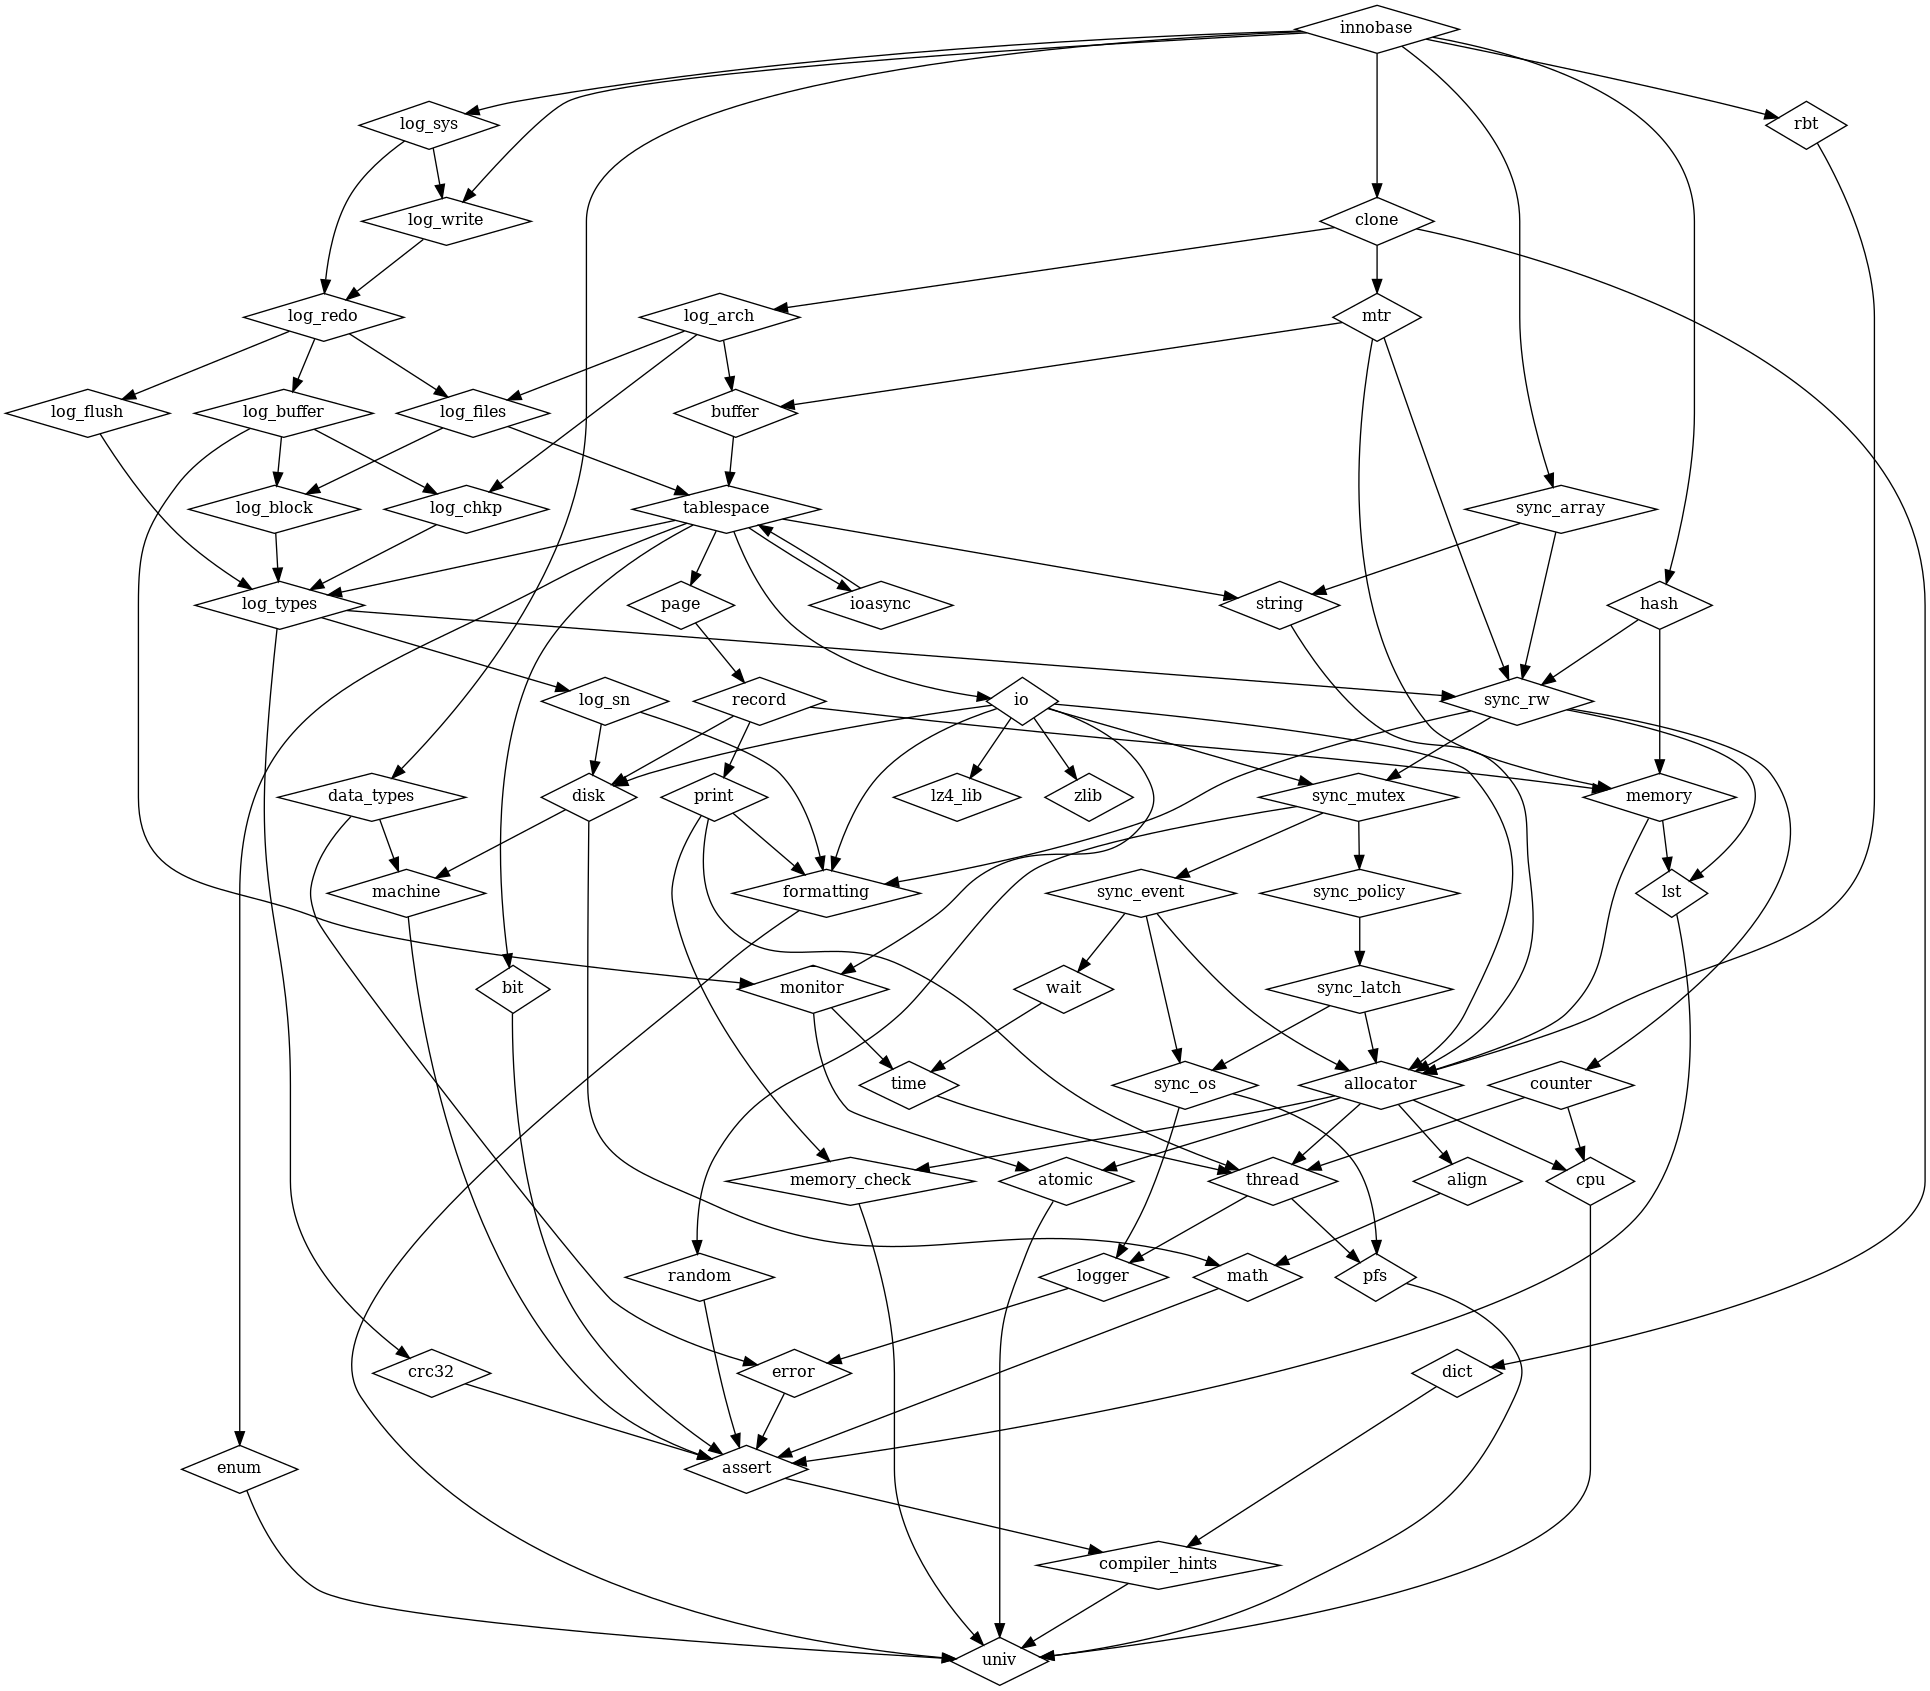
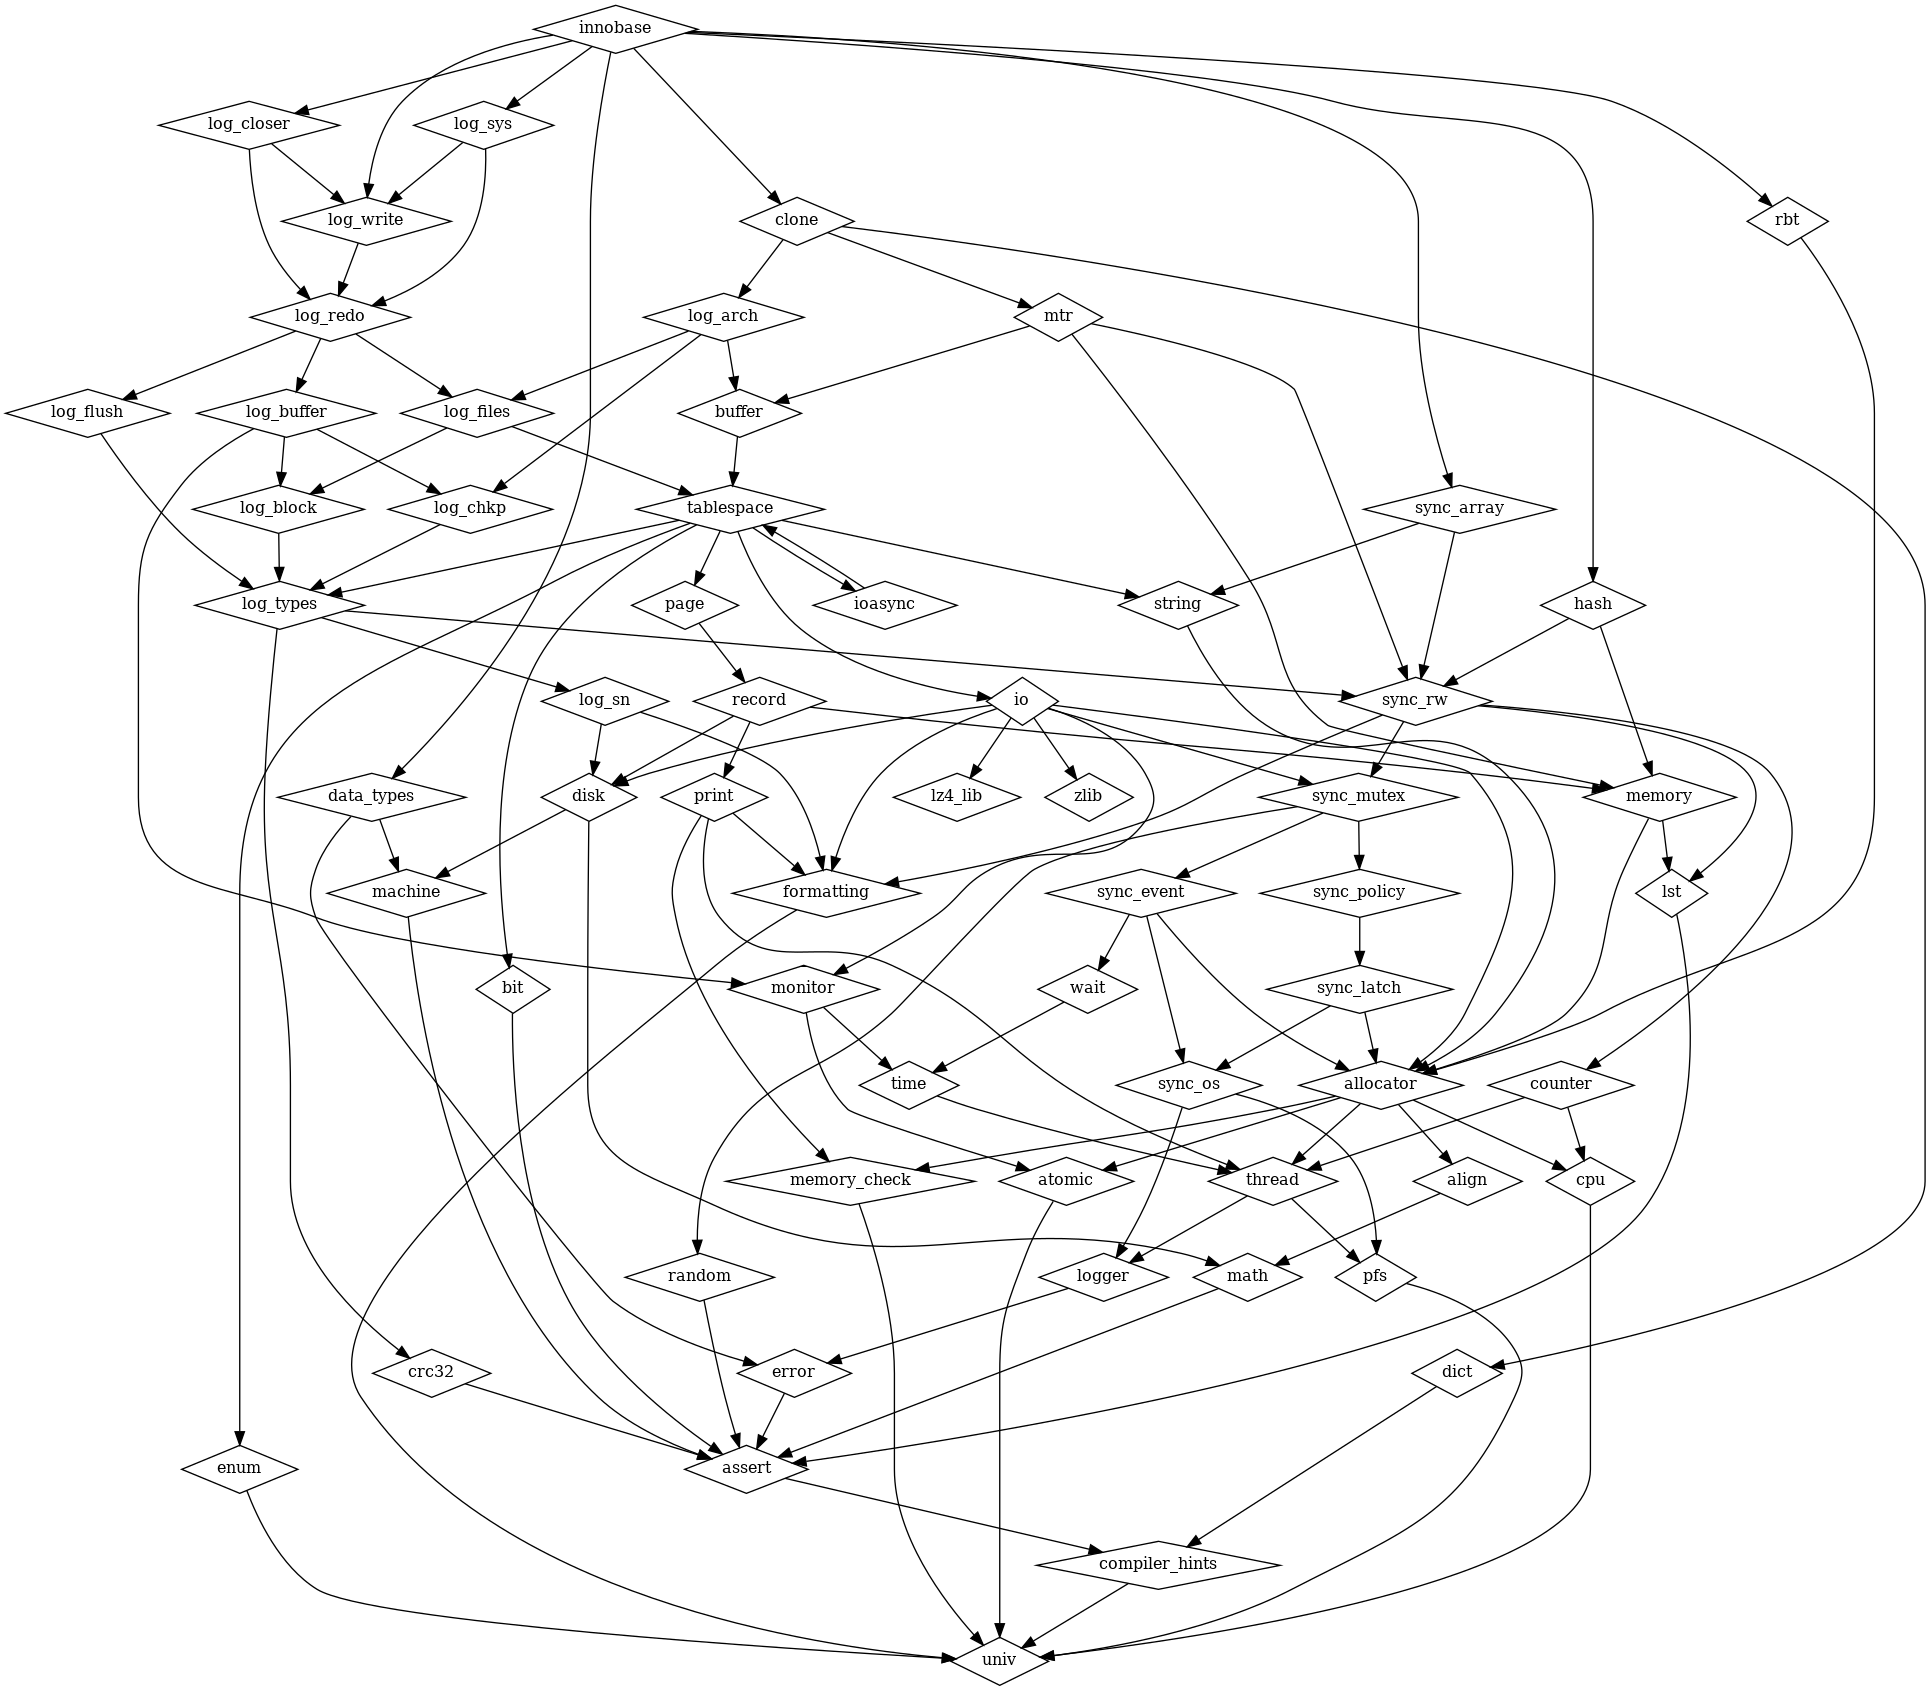
Create log_closer library

diff --git a/storage/innobase/libs/log_closer/src/log_closer.cpp b/storage/innobase/libs/log_closer/src/log_closer.cpp
@@ -1,4 +1,4 @@
-#include <innodb/log_write/log_closer.h>
+#include <innodb/log_closer/log_closer.h>
 
 #include <innodb/log_redo/log_advance_dirty_pages_added_up_to_lsn.h>
 #include <innodb/log_buffer/log_buffer_dirty_pages_added_up_to_lsn.h>
@@ -9,8 +9,8 @@
 #include <innodb/log_sn/log_lsn_validate.h>
 #include <innodb/log_types/log_t.h>
 #include <innodb/log_write/Log_thread_waiting.h>
-#include <innodb/log_write/srv_log_closer_spin_delay.h>
-#include <innodb/log_write/srv_log_closer_timeout.h>
+#include <innodb/log_closer/srv_log_closer_spin_delay.h>
+#include <innodb/log_closer/srv_log_closer_timeout.h>
 #include <innodb/sync_event/os_event_set.h>
 
 void log_closer(log_t *log_ptr) {

diff --git a/storage/innobase/include/srv0srv.h b/storage/innobase/include/srv0srv.h
@@ -63,8 +63,8 @@ this program; if not, write to the Free Software Foundation, Inc.,
 #include <innodb/log_write/srv_log_write_notifier_spin_delay.h>
 #include <innodb/log_redo/srv_stats.h>
 #include <innodb/log_redo/srv_log_write_max_size.h>
-#include <innodb/log_write/srv_log_closer_timeout.h>
-#include <innodb/log_write/srv_log_closer_spin_delay.h>
+#include <innodb/log_closer/srv_log_closer_timeout.h>
+#include <innodb/log_closer/srv_log_closer_spin_delay.h>
 #include <innodb/log_write/srv_flush_log_at_trx_commit.h>
 #include <innodb/log_write/srv_log_spin_cpu_abs_lwm.h>
 #include <innodb/log_write/srv_cpu_usage.h>

diff --git a/storage/innobase/log/log0log.cc b/storage/innobase/log/log0log.cc
@@ -56,7 +56,7 @@ this program; if not, write to the Free Software Foundation, Inc.,
 #include <innodb/log_buffer/log_calc_buf_size.h>
 #include <innodb/log_sys/log_sys_object.h>
 #include <innodb/log_redo/pfs.h>
-#include <innodb/log_write/log_closer.h>
+#include <innodb/log_closer/log_closer.h>
 #include <innodb/log_write/log_flush_notifier.h>
 #include <innodb/log_write/log_write_notifier.h>
 

diff --git a/storage/innobase/libs/log_closer/src/srv_log_closer_spin_delay.cpp b/storage/innobase/libs/log_closer/src/srv_log_closer_spin_delay.cpp
@@ -1,4 +1,4 @@
-#include <innodb/log_write/srv_log_closer_spin_delay.h>
+#include <innodb/log_closer/srv_log_closer_spin_delay.h>
 
 #include <innodb/log_types/flags.h>
 

diff --git a/storage/innobase/libs/log_closer/src/srv_log_closer_timeout.cpp b/storage/innobase/libs/log_closer/src/srv_log_closer_timeout.cpp
@@ -1,4 +1,4 @@
-#include <innodb/log_write/srv_log_closer_timeout.h>
+#include <innodb/log_closer/srv_log_closer_timeout.h>
 
 #include <innodb/log_types/flags.h>
 

diff --git a/storage/innobase/libs/log_closer/tests/main.cpp b/storage/innobase/libs/log_closer/tests/main.cpp
@@ -1,0 +1,9 @@
+#include <gtest/gtest.h>
+
+int main( int argc, char **argv ) 
+{
+    ::testing::InitGoogleTest(&argc, argv);
+    return RUN_ALL_TESTS();
+}
+
+

diff --git a/storage/innobase/libs/log_closer/tests/base.cpp b/storage/innobase/libs/log_closer/tests/base.cpp
@@ -1,0 +1,12 @@
+#include <gtest/gtest.h>
+// #include <innodb/log_closer/log_closer.h>
+
+
+//
+//
+TEST( log_closer, constructor )
+{
+
+}
+
+
